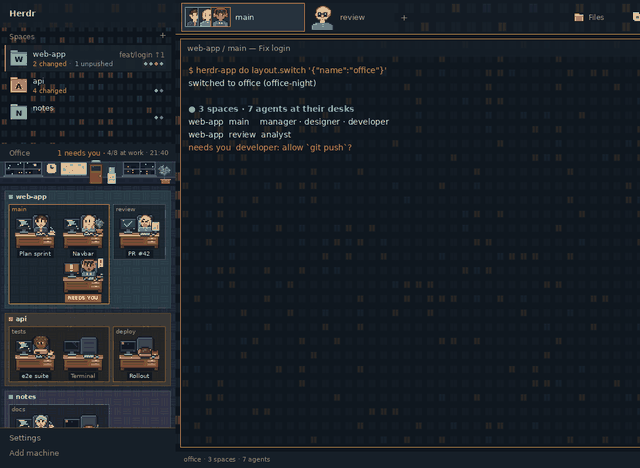
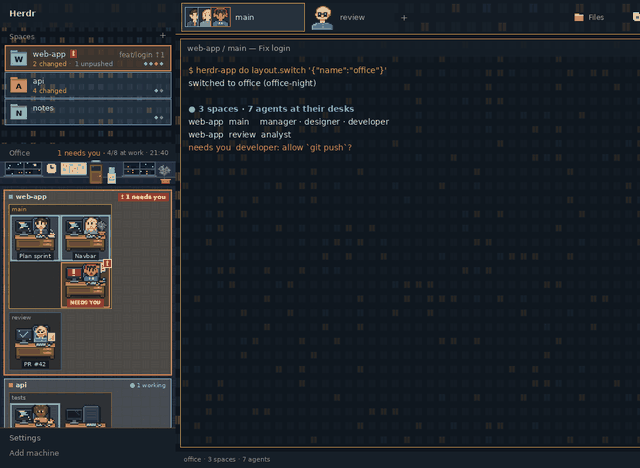
feat(office): breathing and blinking busy marks for desks and spaces
Desks and rugs pulse while an agent works and blink orange-red when one
waits for you, with a "!" badge and a count on rugs. Desks are spaced
wider, and the working animation runs faster.

Changed region(s): [[0.0, 0.3889, 0.2812, 0.9274], [0.0, 0.0897, 0.2812, 0.2692], [0.3125, 0.0299, 0.375, 0.0598]]

diff --git a/mods/office-agents/main.js b/mods/office-agents/main.js
@@ -7,7 +7,7 @@
 import { View, div, image } from "gpui-kit";
 import { h_flex, v_flex } from "gpui-base";
 import { agents, appHome, home, layout, panes, readTextFile, run, setAgentOrder, shared, spaces, theme } from "herdr";
-import { DESK_SHADOW, EMPTY_DESK, deskColumns, deskJobs, deskLabel, deskPath, deskTip, localId, officePlan, portraitPath, spaceColor, splitTree, treeWidth, withAlpha } from "./lib.js";
+import { DESK_SHADOW, EMPTY_DESK, deskColumns, deskJobs, deskLabel, deskPath, deskTip, localId, mixHex, officePlan, portraitPath, spaceColor, splitTree, treeWidth, withAlpha } from "./lib.js";
 
 const JOBS_FILE = `${appHome()}/mods/office-agents/jobs.json`;
 // herdr-core keeps every app's shared documents here, Herdr's layout among them.
@@ -21,7 +21,7 @@ const DESK_W = 72;
 const DESK_H = 60;
 const SLOT_W = 80;
 const LABEL_H = 13;
-const GAP = 2;
+const GAP = 6;
 // Wider than this many desks, a split tree falls back to rows of desks.
 const MOST_ACROSS = 3;
 
@@ -47,6 +47,39 @@ function goTo(space, tab, pane) {
 }
 
 const picture = (src) => div().absolute().top(0).left(0).child(image(src).w(DESK_W).h(DESK_H));
+
+// How a desk or a rug shows that someone there is busy or waiting for you.
+// Busy: a steady bright frame, a glow breathing under it and (ring) a wider
+// frame breathing around it. Waiting: a thick frame blinking fast over a red
+// tint. The pulses run natively; nothing re-renders for them.
+function activity(id, status, t, ring) {
+  const fill = () => div().absolute().top(0).left(0).right(0).bottom(0);
+  const frame = (n) => div().absolute().top(-n).left(-n).right(-n).bottom(-n);
+  if (status === "working") {
+    return {
+      under: [fill().id(`${id}-glow`).bg(withAlpha(t.working, "2e")).loop("opacity", { from: 0.15, to: 1, period: 1100 })],
+      over: [
+        frame(1).border(1).border_color(mixHex(t.working, "#ffffff", 0.3)),
+        ...(ring ? [frame(3).id(`${id}-ring`).border(2).border_color(t.working).loop("opacity", { from: 0, to: 0.85, period: 1100 })] : []),
+      ],
+    };
+  }
+  if (status === "blocked") {
+    return {
+      under: [fill().bg(withAlpha(t.blocked, "30"))],
+      over: [frame(2).id(`${id}-blink`).border(2).border_color(t.blocked).loop("opacity", { from: 0.2, to: 1, period: 600, easing: "linear" })],
+    };
+  }
+  return { under: [], over: [] };
+}
+
+// A "!" bobbing on the corner of a desk whose agent waits for you.
+const alert = (id) => div().id(`${id}-alert`).absolute().top(-7).right(-5).size(15).flex().items_center().justify_center()
+  .bg(TAG).border(1).border_color("#fff0e6").text_size(10).font_bold().text_color("#ffffff").child("!")
+  .loop("top", { from: -9, to: -5, period: 700 });
+
+// The most urgent status among some agents: waiting beats working.
+const urgent = (list) => (list.some((a) => a.status === "blocked") ? "blocked" : list.some((a) => a.status === "working") ? "working" : null);
 
 export default class Office extends View {
   init(_props, cx) {
@@ -116,13 +149,16 @@ export default class Office extends View {
     const job = a ? roles.get(a.address) : null;
     const src = (a && deskPath(job, a.status)) || EMPTY_DESK;
     const focused = a ? a.focused : d.pane.focused;
+    const id = `desk-${a ? a.address : d.pane.pane}`;
+    const shown = activity(id, a?.status, t, true);
     const label = a?.status === "blocked"
       ? div().h(LABEL_H).px(5).flex().items_center().bg(TAG).text_size(8.5).font_bold().text_color("#fff0e6").child("NEEDS YOU")
       : div().h(LABEL_H).max_w(SLOT_W).px(4).flex().items_center().bg("#0d131bb8").text_size(10)
         .text_color(focused ? t.accent : a ? t.foreground : t.muted)
         .child(div().min_w(0).truncate().child(deskLabel(d) || " "));
     return v_flex()
-      .id(`desk-${a ? a.address : d.pane.pane}`)
+      .id(id)
+      .relative()
       .w(SLOT_W)
       .flex_none()
       .items_center()
@@ -131,8 +167,11 @@ export default class Office extends View {
       .hover((s) => s.bg(t.hover))
       .tooltip(deskTip({ job, agent: a, pane: d.pane, space, tab: c.tab }))
       .on_click(() => (a ? run("agent.focus", { terminal: a.address }) : goTo(space, c.tab, d.pane)))
+      .children(shown.under)
       .child(div().relative().w(DESK_W).h(DESK_H).child(picture(DESK_SHADOW)).child(picture(src)))
-      .child(label);
+      .child(label)
+      .children(shown.over)
+      .when(a?.status === "blocked", (el) => el.child(alert(id)));
   }
 
   // Desks the way the tab is split: a row for side by side, a column for stacked.
@@ -165,10 +204,17 @@ export default class Office extends View {
       .children(lines.map((line) => h_flex().gap(GAP).children(line.map((d) => this.desk(row, c, d, roles, t)))));
   }
 
+  // A rug per space; one where someone works or waits shows it as a desk does,
+  // with a count in its corner.
   rug(row, roles, colors, trees, t) {
     const color = spaceColor(t, colors, row.space.id);
+    const staff = row.tabs.flatMap((c) => c.desks.filter((d) => d.agent).map((d) => d.agent));
+    const status = urgent(staff);
+    const count = staff.filter((a) => a.status === status).length;
+    const shown = activity(`rug-${row.space.id}`, status, t, false);
     return v_flex()
       .id(`rug-${row.space.id}`)
+      .relative()
       .flex_none()
       .px(6)
       .pt(3)
@@ -177,11 +223,17 @@ export default class Office extends View {
       .bg(withAlpha(color, "24"))
       .border(1)
       .border_color(withAlpha(color, "66"))
+      .children(shown.under)
       .child(h_flex().h(15).gap(6).items_center()
         .child(div().size(7).flex_none().bg(color))
-        .child(div().flex_1().min_w(0).truncate().text_size(11).font_semibold().text_color(t.foreground).child(row.space.name)))
+        .child(div().flex_1().min_w(0).truncate().text_size(11).font_semibold().text_color(t.foreground).child(row.space.name))
+        .when(status === "blocked", (el) => el.child(div().flex_none().px(4).bg(TAG).text_size(10).font_bold().text_color("#ffffff")
+          .child(`! ${count} need${count === 1 ? "s" : ""} you`)))
+        .when(status === "working", (el) => el.child(div().flex_none().text_size(10).text_color(mixHex(t.working, "#ffffff", 0.3))
+          .child(`● ${count} working`))))
       .child(h_flex().flex_wrap().items_start().gap(6)
-        .children(row.tabs.map((c) => this.cubicle(row, c, roles, color, trees.get(c.tab.id) ?? null, t))));
+        .children(row.tabs.map((c) => this.cubicle(row, c, roles, color, trees.get(c.tab.id) ?? null, t))))
+      .children(shown.over);
   }
 
   // A rail too narrow for desks: one face per agent, framed in its status colour.

diff --git a/mods/office-spaces/main.js b/mods/office-spaces/main.js
@@ -19,6 +19,31 @@ function badge(name, color, t) {
     .child(div().absolute().top(4).left(0).w(28).h(1).bg("#ffffff46"));
 }
 
+// A theme colour with a two-digit alpha (theme colours are #rrggbb).
+const alpha = (c, a) => (typeof c === "string" && /^#[0-9a-fA-F]{6}/.test(c) ? `${c.slice(0, 7)}${a}` : c);
+
+// The most urgent status among some agents: waiting beats working.
+const urgent = (list) => (list.some((a) => a.status === "blocked") ? "blocked" : list.some((a) => a.status === "working") ? "working" : null);
+
+// A row where someone works breathes in the working colour under a steady frame;
+// one where someone waits blinks a thick frame over a red tint (as in the office).
+function activity(id, status, t) {
+  const fill = () => div().absolute().top(0).left(0).right(0).bottom(0);
+  if (status === "working") {
+    return {
+      under: [fill().id(`${id}-glow`).bg(alpha(t.working, "2e")).loop("opacity", { from: 0.15, to: 1, period: 1100 })],
+      over: [fill().border(1).border_color(t.working)],
+    };
+  }
+  if (status === "blocked") {
+    return {
+      under: [fill().bg(alpha(t.blocked, "30"))],
+      over: [fill().id(`${id}-blink`).border(2).border_color(t.blocked).loop("opacity", { from: 0.2, to: 1, period: 600, easing: "linear" })],
+    };
+  }
+  return { under: [], over: [] };
+}
+
 function find(node, id) {
   if (node?.id === id) return node;
   for (const child of node?.children ?? []) {
@@ -342,6 +367,8 @@ export default class Spaces extends View {
 
   row({ w, i, g, sum, tree }, t) {
     const on = w.active;
+    const status = tree ? null : urgent(this.staff.filter((a) => a.space === w.id));
+    const shown = activity(`space-${w.id}`, status, t);
     return v_flex()
       .relative()
       .id(`space-${w.id}`)
@@ -349,6 +376,7 @@ export default class Spaces extends View {
       .h(rowHeight({ tree }))
       .flex_none()
       .justify_center()
+      .children(shown.under)
       .when(on, (el) => el.bg(`${t.surface}c8`).child(div().absolute().left(0).top(0).bottom(0).w(2).bg(t.accent)))
       .when(!on, (el) => el.hover((s) => s.bg(t.hover)))
       .when(this.pressed === i && this.over !== i, (el) => el.opacity(0.5))
@@ -388,9 +416,11 @@ export default class Spaces extends View {
           .child(v_flex().flex_1().min_w(0).gap(2)
             .child(h_flex().gap(9).items_center()
               .child(div().flex_shrink(0).max_w(150).truncate().text_color(t.foreground).child(w.name))
+              .when(status === "blocked", el => el.child(div().flex_none().px(4).bg("#c8392f").text_size(10).font_bold().text_color("#ffffff").child("!")))
               .child(g ? this.gitTail(g, tree, w.name, t) : div().flex_1()))
             .when(!tree, el => el.child(this.summary(w, sum, t)))),
-      );
+      )
+      .children(shown.over);
   }
 
   compact({ w, i }, t) {

diff --git a/tools/build-preview.py b/tools/build-preview.py
@@ -85,7 +85,7 @@ SPACES = [
      "tabs": [{"name": "docs", "panes": [("writer", "working", "README"), ("intern", "idle", "Typos")]}]},
 ]
 
-DESK_W, DESK_H, SLOT_W, LABEL_H, GAP = 72, 60, 80, 13, 2
+DESK_W, DESK_H, SLOT_W, LABEL_H, GAP = 72, 60, 80, 13, 6
 SLOT_H = DESK_H + 1 + LABEL_H
 
 
@@ -106,8 +106,16 @@ def draw_spaces(sb: Image.Image, d: ImageDraw.ImageDraw, top: int) -> None:
     for s in SPACES:
         box = [8, y, SIDEBAR - 8, y + 44]
         if s.get("active"):
-            d.rectangle(box, fill=hexa("surface", 0xC8))
+            tint(sb, box, hexa("surface", 0xC8))
             d.rectangle([box[0], box[1], box[0] + 1, box[3]], fill=hexa("accent"))
+        sts = [st for t in s["tabs"] for _, st, _ in t["panes"] if st]
+        status = "blocked" if "blocked" in sts else "working" if "working" in sts else None
+        if status == "working":
+            tint(sb, box, hexa("working", 0x2E))
+            d.rectangle(box, outline=hexa("working"))
+        elif status == "blocked":
+            tint(sb, box, hexa("blocked", 0x30))
+            d.rectangle(box, outline=hexa("blocked"), width=2)
         col = hexa(s["color"])
         bx, by = box[0] + 10, y + 9
         d.rectangle([bx, by, bx + 11, by + 3], fill=col)
@@ -118,6 +126,10 @@ def draw_spaces(sb: Image.Image, d: ImageDraw.ImageDraw, top: int) -> None:
         d.text((bx + 14 - d.textlength(letter, font=f) / 2, by + 7), letter, font=f, fill=hexa("canvas"))
         tx = bx + 38
         d.text((tx, y + 7), s["name"], font=font(13), fill=hexa("foreground"))
+        if status == "blocked":
+            nx = tx + d.textlength(s["name"], font=font(13)) + 8
+            d.rectangle([nx, y + 8, nx + 10, y + 21], fill=hexa("#c8392f"))
+            d.text((nx + 3, y + 7), "!", font=font(11, bold=True), fill=(255, 255, 255, 255))
         if s["tail"]:
             tf = font(11.5)
             d.text((box[2] - 10 - d.textlength(s["tail"], font=tf), y + 9), s["tail"], font=tf, fill=hexa("dim"))
@@ -156,8 +168,31 @@ def tree_size(node) -> tuple[int, int]:
     return max(w for w, _ in sizes), sum(h for _, h in sizes) + gaps
 
 
+def mix(a: str, b: str, t: float) -> tuple[int, int, int, int]:
+    x, y = hexa(a), hexa(b)
+    return tuple(round(x[i] + (y[i] - x[i]) * t) for i in range(3)) + (255,)
+
+
+def bright(key: str, t: float = 0.3) -> tuple[int, int, int, int]:
+    return mix(C[key], "#ffffff", t)
+
+
+def busy_marks(sb, d, box, status, ring):
+    """What the mods draw for someone working or waiting, at the pulse's peak."""
+    x0, y0, x1, y1 = box
+    if status == "working":
+        tint(sb, box, hexa("working", 0x2E))
+        d.rectangle([x0 - 1, y0 - 1, x1 + 1, y1 + 1], outline=bright("working"))
+        if ring:
+            d.rectangle([x0 - 3, y0 - 3, x1 + 3, y1 + 3], outline=hexa("working", 0xD8), width=2)
+    elif status == "blocked":
+        tint(sb, box, hexa("blocked", 0x30))
+        d.rectangle([x0 - 2, y0 - 2, x1 + 2, y1 + 2], outline=hexa("blocked"), width=2)
+
+
 def draw_desk(sb, d, t, i, cx, cy, shadow, frame):
     role, st, title = t["panes"][i]
+    busy_marks(sb, d, [cx, cy, cx + SLOT_W - 1, cy + SLOT_H - 1], st, True)
     dx = cx + (SLOT_W - DESK_W) // 2
     sb.alpha_composite(shadow, (dx, cy))
     art = f"mods/office-agents/desks/{role}-{st}.gif" if role else "mods/office-agents/desks/empty.png"
@@ -169,6 +204,9 @@ def draw_desk(sb, d, t, i, cx, cy, shadow, frame):
         tx = cx + SLOT_W / 2 - tw / 2
         d.rectangle([tx, ly, tx + tw, ly + LABEL_H], fill=hexa("#c8392f"))
         d.text((tx + 5, ly + 1), "NEEDS YOU", font=tf, fill=(255, 240, 230, 255))
+        bx, by = cx + SLOT_W - 10, cy - 7
+        d.rectangle([bx, by, bx + 14, by + 14], fill=hexa("#c8392f"), outline=(255, 240, 230, 255))
+        d.text((bx + 5, by), "!", font=font(11, bold=True), fill=(255, 255, 255, 255))
     else:
         lf = font(10)
         label = fit(d, title, lf, SLOT_W - 8)
@@ -227,8 +265,19 @@ def draw_office(sb: Image.Image, top: int, bottom: int, frame: int) -> None:
         rug = [8, y, SIDEBAR - 9, y + rug_h - 1]
         tint(sb, rug, color[:3] + (0x24,))
         d.rectangle(rug, outline=color[:3] + (0x66,))
+        sts = [st for t in s["tabs"] for _, st, _ in t["panes"] if st]
+        status = "blocked" if "blocked" in sts else "working" if "working" in sts else None
+        busy_marks(sb, d, rug, status, False)
         d.rectangle([rug[0] + 7, y + 7, rug[0] + 13, y + 13], fill=color)
         d.text((rug[0] + 19, y + 3), s["name"], font=font(11, bold=True), fill=hexa("foreground"))
+        if status:
+            n = sts.count(status)
+            text = f"! {n} need{'s' if n == 1 else ''} you" if status == "blocked" else f"● {n} working"
+            tf = font(10, bold=status == "blocked")
+            tx = rug[2] - 8 - d.textlength(text, font=tf)
+            if status == "blocked":
+                d.rectangle([tx - 4, y + 4, rug[2] - 4, y + 17], fill=hexa("#c8392f"))
+            d.text((tx, y + 4), text, font=tf, fill=(255, 255, 255, 255) if status == "blocked" else bright("working"))
         py = y + 3 + 15 + 5
         for r in rows:
             px = rug[0] + 7

diff --git a/tools/build-art.py b/tools/build-art.py
@@ -460,7 +460,7 @@ def person_back(role: str, state: str, f: int) -> Art:
             a.rect(18, 12, 10, 1, r["acc"])
         return a.outline()
     glow = GLOW.get(state)
-    mood = {"working": "blink" if f == 4 else "look", "blocked": "open", "done": "happy"}.get(state, "front")
+    mood = {"working": "blink" if f == 7 else "look", "blocked": "open", "done": "happy"}.get(state, "front")
     face(a, role, mood, glow)
     a.rows(x0, 0, rows, hair_pal(r))
     accessories(a, role)
@@ -478,10 +478,8 @@ def person_front(role: str, state: str, f: int) -> Art:
         a.rect(22, 16, 2, 1, skin)
         return a.outline()
     lift_l = lift_r = 0
-    if state == "working":
+    if state == "working":  # a key every frame, hands taking turns
         lift_l, lift_r = (1, 0) if f % 2 == 0 else (0, 1)
-        if f % 3 == 2:
-            lift_l = lift_r = 0
     a.rect(20, 16 - lift_l, 2, 1, skin)
     if state != "blocked":
         a.rect(24, 16 - lift_r, 2, 1, skin)
@@ -712,7 +710,8 @@ def scene(role: str | None, state: str, f: int) -> Art:
     return a
 
 
-DESK_STATES = {"working": (6, 170), "blocked": (4, 320), "done": (6, 520), "idle": (8, 420)}
+# Working is fast on purpose: twelve frames (one full scroll of CODE) at 90 ms.
+DESK_STATES = {"working": (12, 90), "blocked": (4, 320), "done": (6, 520), "idle": (8, 420)}
 
 
 def build_desks() -> None:

diff --git a/README.md b/README.md
@@ -67,6 +67,10 @@ first. Herdr keeps the mod names in its own `seen.json`, which is harmless.
     colour with its initial, the name, the branch when unusual, then one line:
     uncommitted files (`ansi3`), unpushed commits (`ansi2`), repos without a
     remote (`ansi1`), and a dot per agent in the space in its status colour.
+    A space where an agent works **breathes**: a steady frame in the working
+    colour over a glow that fades in and out. A space where an agent waits for
+    you **blinks** a thick orange frame over a red tint, with a `!` by its name.
+    Waiting wins over working.
   - **Office:** a header (`N need you`, `N/M at work`, the time), the back wall
     (night windows, clock, kanban board, door, water cooler, plant), then the
     dark carpet. Each **space is a rug** tinted in its folder's colour, in the
@@ -100,13 +104,16 @@ desks fall back to pane order: up to three in a row, four as two by two.
 
 | Status | Screen | Staff |
 |---|---|---|
-| `working` | green, code scrolling, LED green | typing, eyes on the screen, coffee steaming |
-| `blocked` | red, blinking `!` | one hand up, mouth open, a `!` bubble; the label turns into a red `NEEDS YOU` tag |
+| `working` | green, code scrolling fast, LED green | typing fast (a key every 90 ms), eyes on the screen, coffee steaming; the desk breathes: a bright frame, a glow and a wider ring fading in and out |
+| `blocked` | red, blinking `!` | one hand up, mouth open, a `!` bubble; a thick orange frame blinks over a red tint, a `!` badge bobs on the corner, the label turns into a red `NEEDS YOU` tag |
 | `done` | blue with a check mark | stretching, hands behind the head, smiling |
 | `idle` | screensaver | head down on folded arms, `zZz` |
 
 Every desk is lit by its screen, and each role keeps its own things on it (a
-plant, a rubber duck, a phone, a chart, a stack of books...). Click a staffed desk for
+plant, a rubber duck, a phone, a chart, a stack of books...). A rug shows its
+space the same way (breathing or blinking) with `● N working` or
+`! N need you` in its corner. The pulses are native `loop`s on `opacity`/`top`:
+they run without re-rendering the mod. Click a staffed desk for
 `agent.focus` (its terminal, in its space and tab); click an empty one to go to
 that pane. Hover for who, what and where. `agent.next` / `agent.prev` walk the
 desks in the order they are drawn. Narrowed below 160 px, the office becomes a
